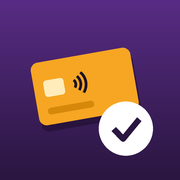
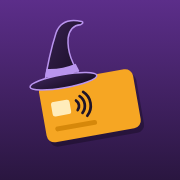
Which Card is now Witch Card
The mascot is a card dressed as a witch, riding a broom (No magic. Just
math.), a witch hat lands on the card to use, the header mark is a card in a
hat, and the home-screen icon is the marigold card in the hat. New name in
the page, the manifest, the About text and the README; the web address is
witch-card.tompkinssoftwaresystems.com. Storage keys, the engine's global
and the setup code prefix keep their old names, so nobody loses their
wallet. Icons are now drawn from an SVG.

Changed region(s): [[0.1389, 0.1111, 0.8611, 0.8889]]

diff --git a/app.js b/app.js
@@ -1,4 +1,4 @@
-/* Which Card: app shell. Depends on engine.js (WhichCardEngine). */
+/* Witch Card: app shell. Depends on engine.js (WhichCardEngine, the engine's name from before the rename). */
 (function () {
   'use strict';
   var E = window.WhichCardEngine;
@@ -199,9 +199,15 @@
   var sheetOnClose = null;
 
   /* ---------- first-run disclaimer ---------- */
+  // The mascot: a goofy plum card dressed as a witch, riding a broom. Arms take the text color so they show in dark mode.
   function mascotSvg() {
-    return '<svg viewBox="0 0 240 180" width="200" height="150" role="img" aria-label="A goofy cartoon credit card">' +
-      '<defs><linearGradient id="mg" x1="0" y1="0" x2="1" y2="1"><stop offset="0" stop-color="#8A55C9"/><stop offset="1" stop-color="#3B1A60"/></linearGradient></defs>' +
+    return '<svg viewBox="-40 -66 296 274" width="214" height="198" role="img" aria-label="A goofy cartoon credit card dressed as a witch, riding a broom">' +
+      '<defs><linearGradient id="mg" x1="0" y1="0" x2="1" y2="1"><stop offset="0" stop-color="#8A55C9"/><stop offset="1" stop-color="#3B1A60"/></linearGradient>' +
+      '<linearGradient id="mh" x1="0" y1="0" x2="1" y2="1"><stop offset="0" stop-color="#4A2F6E"/><stop offset="1" stop-color="#170D20"/></linearGradient></defs>' +
+      '<path d="M4 172 L 244 138" stroke="#7A4A22" stroke-width="7" stroke-linecap="round"/>' +
+      '<path d="M11.2 165.1 L -26.8 156.2 Q -36 176 -21.2 195.8 L 12.8 176.9 Z" fill="#E8B04B"/>' +
+      '<path d="M11 168 L -28 164 M11.5 171 L -30 176 M12 174 L -26 188" stroke="#B9802A" stroke-width="1.6" stroke-linecap="round" fill="none"/>' +
+      '<path d="M9 163.5 L 17.5 162.3 L 19.2 178.2 L 10.6 179.4 Z" fill="#5B2E86"/>' +
       '<g transform="rotate(-8 120 95)">' +
       '<rect x="30" y="40" width="180" height="112" rx="14" fill="url(#mg)"/>' +
       '<rect x="30" y="62" width="180" height="16" fill="#24103A" opacity=".9"/>' +
@@ -214,15 +220,33 @@
       '<path d="M104 128 q30 22 60 0" fill="none" stroke="#fff" stroke-width="4" stroke-linecap="round"/>' +
       '<path d="M128 139 q8 14 2 24 q-10 -6 -2 -24z" fill="#E86A6A"/>' +
       '<text x="198" y="57" text-anchor="end" fill="#fff" font-family="Archivo WC, Archivo, Helvetica, Arial, sans-serif" font-size="10.5" font-weight="800" font-style="italic" font-stretch="112%" letter-spacing=".6" opacity=".85">PAYS IN FULL</text>' +
-      '</g>' +
-      '<path d="M40 60 q-22 -4 -28 18" fill="none" stroke="#1E1328" stroke-width="6" stroke-linecap="round"/><circle cx="12" cy="80" r="7" fill="#1E1328"/>' +
-      '<path d="M206 70 q22 -16 26 2" fill="none" stroke="#1E1328" stroke-width="6" stroke-linecap="round"/><circle cx="232" cy="72" r="7" fill="#1E1328"/>' +
+      '<g transform="rotate(-7 89 40) translate(-4 0) translate(89 40) scale(1.2) translate(-89 -40)">' +
+      '<path d="M64 39 Q 78 4 92 -22 Q 104 -42 126 -30 Q 129 -28 124 -26 Q 110 -28 104 -14 Q 98 8 114 39 Z" fill="url(#mh)" stroke="#6A4A96" stroke-width="1.2" stroke-linejoin="round"/>' +
+      '<path d="M67 32 Q 89 35.5 110.5 32 L 107.4 24 Q 89 27.5 70.2 24 Z" fill="#F6A623"/>' +
+      '<rect x="84" y="24.6" width="10" height="8.6" rx="1.6" fill="none" stroke="#1E1328" stroke-width="2"/>' +
+      '<ellipse cx="89" cy="40" rx="46" ry="8" fill="url(#mh)" stroke="#6A4A96" stroke-width="1.2"/>' +
+      '</g></g>' +
+      '<path d="M40 60 q-22 -4 -28 18" fill="none" stroke="currentColor" stroke-width="6" stroke-linecap="round"/><circle cx="12" cy="80" r="7" fill="currentColor"/>' +
+      '<path d="M206 70 q22 -16 26 2" fill="none" stroke="currentColor" stroke-width="6" stroke-linecap="round"/><circle cx="232" cy="72" r="7" fill="currentColor"/>' +
+      '</svg>';
+  }
+  // The witch hat, on its own: it lands on the card to use. Same shape as the mascot's.
+  var hatSeq = 0;
+  function hatSvg() {
+    var id = 'wh' + (++hatSeq);
+    return '<svg viewBox="38 -44 102 96" aria-hidden="true" focusable="false">' +
+      '<defs><linearGradient id="' + id + '" x1="0" y1="0" x2="1" y2="1"><stop offset="0" stop-color="#4A2F6E"/><stop offset="1" stop-color="#170D20"/></linearGradient></defs>' +
+      '<path d="M64 39 Q 78 4 92 -22 Q 104 -42 126 -30 Q 129 -28 124 -26 Q 110 -28 104 -14 Q 98 8 114 39 Z" fill="url(#' + id + ')" stroke="#7A5AA8" stroke-width="1.6" stroke-linejoin="round"/>' +
+      '<path d="M67 32 Q 89 35.5 110.5 32 L 107.4 24 Q 89 27.5 70.2 24 Z" fill="#F6A623"/>' +
+      '<rect x="84" y="24.6" width="10" height="8.6" rx="1.6" fill="none" stroke="#1E1328" stroke-width="2"/>' +
+      '<ellipse cx="89" cy="40" rx="46" ry="8" fill="url(#' + id + ')" stroke="#7A5AA8" stroke-width="1.6"/>' +
       '</svg>';
   }
   function openDisclaimer() {
     var art = h('div', { class: 'mascot' }); art.innerHTML = mascotSvg();
     var nodes = [
       art,
+      h('p', { class: 'mascot-note' }, 'No magic. Just math.'),
       h('h2', { style: 'text-align:center' }, 'Quick word before we start'),
       h('p', { style: 'text-align:center' }, 'This was built for people who pay their statement in full every month so they never pay interest. Rewards are the only reason to pick one card over another.'),
       h('p', { class: 'muted', style: 'text-align:center' }, 'If you carry a balance and pay interest: no judgment, carry on exactly as you are. The rest of us appreciate you funding these rewards.'),
@@ -431,7 +455,9 @@
     var winner = h('div', { class: 'winner ' + tone + (changed ? ' reveal' : '') + (where ? '' : ' nowhere'), style: '--card:' + card.color });
     if (changed && interacted && navigator.vibrate) { try { navigator.vibrate(8); } catch (e) { } }
     winner.appendChild(h('div', { class: 'w-label' }, icon('check'), where ? 'Use this card' : 'For everything else, use'));
-    var pulled = h('div', { class: 'w-card' }); pulled.appendChild(cardArt(card, 300, { bare: true })); winner.appendChild(pulled);
+    var pulled = h('div', { class: 'w-card' }); pulled.appendChild(cardArt(card, 300, { bare: true }));
+    var hat = h('span', { class: 'w-hat' }); hat.innerHTML = hatSvg(); pulled.appendChild(hat);
+    winner.appendChild(pulled);
     winner.appendChild(h('div', { class: 'name' }, best.entry.nickname || card.name));
     var row = h('div', { class: 'wrow' });
     var unit = best.unit;
@@ -988,7 +1014,7 @@
         if (!existing && !walletEntry(card.id)) state.wallet.push({ cardId: card.id, added: new Date().toISOString() });
         saveState(); closeSheet(); toast(existing ? 'Card updated' : 'Added ' + card.name);
       } }, existing ? 'Save' : 'Add to my wallet'),
-      h('p', { class: 'small muted' }, 'Want it in the catalog for everyone? ', h('a', { href: 'mailto:' + CONTACT + '?subject=' + encodeURIComponent('Which Card: please add a card') + '&body=' + encodeURIComponent('Card: \nBank: \nWhat it earns: \nLink to the bank page: '), }, 'Email us the card name and the bank page'), '.')
+      h('p', { class: 'small muted' }, 'Want it in the catalog for everyone? ', h('a', { href: 'mailto:' + CONTACT + '?subject=' + encodeURIComponent('Witch Card: please add a card') + '&body=' + encodeURIComponent('Card: \nBank: \nWhat it earns: \nLink to the bank page: '), }, 'Email us the card name and the bank page'), '.')
     ];
     openSheet(existing ? 'Edit my card' : 'My card isn\u2019t here', nodes);
     sheetOnClose = function () { if (intro) openAddCards(true); else renderAll(); };
@@ -1311,7 +1337,7 @@
       }
       nodes.push(box);
     }
-    nodes.push(h('p', { class: 'small muted' }, 'Rates checked ' + fmtLongDate(card.verified || data.verified) + ' against the issuer. ', card.sourceUrl ? h('a', { href: card.sourceUrl, target: '_blank', rel: 'noopener' }, 'Issuer page') : null, card.sourceUrl ? ' or ' : '', h('a', { href: 'mailto:' + CONTACT + '?subject=' + encodeURIComponent('Which Card: wrong number on ' + card.name) }, 'Report a wrong number')));
+    nodes.push(h('p', { class: 'small muted' }, 'Rates checked ' + fmtLongDate(card.verified || data.verified) + ' against the issuer. ', card.sourceUrl ? h('a', { href: card.sourceUrl, target: '_blank', rel: 'noopener' }, 'Issuer page') : null, card.sourceUrl ? ' or ' : '', h('a', { href: 'mailto:' + CONTACT + '?subject=' + encodeURIComponent('Witch Card: wrong number on ' + card.name) }, 'Report a wrong number')));
     if (card.custom) nodes.push(h('button', { class: 'btn block', onclick: function () { openCustomCard(card); } }, 'Edit this card'));
     if (inWallet) nodes.push(h('button', { class: 'btn danger block', onclick: function () {
       toggleCard(card);
@@ -1468,7 +1494,7 @@
 
     var as = h('div', { class: 'section' }, h('h2', null, 'About'),
       h('div', { class: 'box small' },
-        h('p', null, h('b', null, 'Which Card'), ' by Tompkins Software Systems.'),
+        h('p', null, h('b', null, 'Witch Card'), ' by Tompkins Software Systems. The witch is for fun; the answers are arithmetic on your own cards. No magic. Just math.'),
         h('p', { style: 'margin-top:8px' }, 'Nothing to sign up for. Your card list, purchases and settings stay on this phone. The only thing that leaves it is an anonymous nearby-places lookup when you use location, and the stores it finds are remembered on this phone for 30 days so a return visit is instant.'),
         h('p', { style: 'margin-top:8px', class: 'pledge' }, 'Made by a cardholder, not a bank. No sponsors. No ads, ever. No subscription, ever. 99 cents once, for life.'),
         h('p', { style: 'margin-top:8px' }, h('b', null, 'About the card pictures. '), 'Drawn, not real. Partly because we are cheap asses, mostly because the real designs are trademarked and we are not spending eternity in court over a picture. The sites with the real pictures have a deal with the bank and get paid when you click. We get squat, on purpose.'),

diff --git a/app.css b/app.css
@@ -95,8 +95,7 @@ b, strong { font-weight: 680; }
 .top { position: sticky; top: env(safe-area-inset-top, 0px); z-index: 5; background: var(--bg); }
 .top .wrap { display: flex; align-items: center; justify-content: space-between; gap: 12px; padding-block: 10px 6px; }
 .brand { display: flex; align-items: center; gap: 10px; font-weight: 820; font-stretch: 112%; font-size: 1.2rem; letter-spacing: -.015em; }
-.brand .mark { position: relative; width: 30px; height: 20px; border-radius: 5px; background: linear-gradient(135deg, #7E4BC0, #3B1A60); transform: rotate(-9deg); box-shadow: 0 3px 6px rgba(42, 22, 64, .35); flex: none; }
-.brand .mark::after { content: ""; position: absolute; left: 5px; top: 6px; width: 8px; height: 6px; border-radius: 2px; background: var(--gold); }
+.brand .mark { width: 37px; height: 34px; flex: none; margin: -6px -2px -2px -3px; filter: drop-shadow(0 3px 4px rgba(42, 22, 64, .3)); }
 .icon-btn { width: 44px; height: 44px; border-radius: 50%; display: grid; place-items: center; color: var(--fg); background: var(--surface); border: 1px solid var(--line); }
 .icon-btn svg { width: 22px; height: 22px; }
 .icon-btn.on { background: var(--accent); color: var(--accent-fg); border-color: var(--accent); }
@@ -166,7 +165,11 @@ main { padding-block: 6px 28px; }
 .winner { display: flex; flex-direction: column; gap: 9px; position: relative; }
 .winner .w-label { display: flex; align-items: center; gap: 6px; color: var(--accent); font-weight: 650; font-size: .95rem; }
 .winner .w-label svg { width: 16px; height: 16px; }
-.winner .w-card { align-self: flex-start; width: min(100%, 300px); margin: 0 0 4px 4px; }
+.winner .w-card { position: relative; align-self: flex-start; width: min(100%, 300px); margin: 0 0 4px 4px; }
+.winner .w-hat { position: absolute; right: -5%; top: 0; width: 25%; transform: translate(0, -56%) rotate(16deg); transform-origin: 50% 85%; pointer-events: none; }
+.winner .w-hat svg { display: block; width: 100%; height: auto; filter: drop-shadow(0 6px 6px rgba(42, 22, 64, .28)); }
+.winner.reveal .w-hat { animation: hatdrop .5s .32s cubic-bezier(.2, .9, .3, 1.25) both; }
+@keyframes hatdrop { from { opacity: 0; transform: translate(-10%, -150%) rotate(-12deg); } to { opacity: 1; transform: translate(0, -56%) rotate(16deg); } }
 @media (max-height: 720px) { .winner .w-card { width: min(100%, 240px); } }
 .winner .w-card .card-art { display: block; width: 100%; }
 .winner .w-card .card-art svg { width: 100%; height: auto; transform: rotate(-2deg); filter: var(--card-drop); }
@@ -377,15 +380,16 @@ label.lbl { display: block; font-size: .85rem; font-weight: 620; color: var(--mu
 /* ---------- Intro (first screen) ---------- */
 .intro { display: flex; flex-direction: column; gap: 16px; padding-block: 14px 8px; }
 .intro h1 { font-size: 2.35rem; font-weight: 840; font-stretch: 108%; line-height: 1.02; letter-spacing: -.025em; }
-.intro-art { position: relative; height: 168px; margin: 0 0 4px; }
+.intro-art { position: relative; height: 168px; margin: 24px 0 4px; }
 .mini-card { position: absolute; left: 50%; top: 18px; width: 178px; height: 112px; border-radius: 13px; box-shadow: 0 16px 28px -10px rgba(42, 22, 64, .5); transform-origin: bottom center; }
 .mini-card::before { content: ""; position: absolute; left: 16px; top: 34px; width: 30px; height: 22px; border-radius: 5px; background: linear-gradient(135deg, #FFE08A, #D9951A); }
 .mini-card::after { content: ""; position: absolute; left: 16px; bottom: 14px; width: 74px; height: 7px; border-radius: 4px; background: rgba(255, 255, 255, .55); }
 .mini-card.c1 { background: linear-gradient(135deg, #8A55C9, #3B1A60); transform: translateX(-50%) translateX(-80px) rotate(-14deg); animation: fan1 .55s cubic-bezier(.2, .8, .2, 1) both; }
 .mini-card.c2 { background: linear-gradient(135deg, #F27A6B, #B7354A); transform: translateX(-50%) translateY(-8px); animation: fan2 .55s .05s cubic-bezier(.2, .8, .2, 1) both; z-index: 1; }
 .mini-card.c3 { background: linear-gradient(135deg, #2E8C86, #155650); transform: translateX(-50%) translateX(80px) rotate(14deg); animation: fan3 .55s .1s cubic-bezier(.2, .8, .2, 1) both; }
-.mini-check { position: absolute; left: calc(50% + 52px); top: 2px; width: 46px; height: 46px; border-radius: 50%; background: var(--gold); color: #1E1328; display: grid; place-items: center; z-index: 2; box-shadow: 0 8px 16px rgba(42, 22, 64, .3); animation: popin .35s .4s cubic-bezier(.2, .8, .2, 1) both; }
-.mini-check svg { width: 24px; height: 24px; }
+.mini-hat { position: absolute; left: calc(50% + 34px); top: -30px; width: 74px; z-index: 2; transform: rotate(14deg); transform-origin: 50% 85%; animation: hatin .5s .45s cubic-bezier(.2, .9, .3, 1.25) both; }
+.mini-hat svg { display: block; width: 100%; height: auto; filter: drop-shadow(0 6px 8px rgba(42, 22, 64, .3)); }
+@keyframes hatin { from { opacity: 0; transform: translateY(-40px) rotate(-10deg); } }
 @keyframes fan1 { from { transform: translateX(-50%) translateY(40px); opacity: 0; } }
 @keyframes fan2 { from { transform: translateX(-50%) translateY(40px); opacity: 0; } }
 @keyframes fan3 { from { transform: translateX(-50%) translateY(40px); opacity: 0; } }
@@ -397,7 +401,8 @@ label.lbl { display: block; font-size: .85rem; font-weight: 620; color: var(--mu
 
 /* ---------- Pledge and mascot ---------- */
 .pledge { font-weight: 700; color: var(--accent); font-size: .98rem; line-height: 1.4; }
-.mascot { display: flex; justify-content: center; padding: 6px 0 0; }
+.mascot { display: flex; justify-content: center; padding: 6px 0 0; color: var(--fg); }
+.mascot-note { margin-top: -6px; text-align: center; font-weight: 760; font-stretch: 110%; color: var(--accent); letter-spacing: -.005em; }
 .mascot svg { animation: bob 2.4s ease-in-out infinite; transform-origin: 50% 90%; }
 @keyframes bob { 0%, 100% { transform: rotate(-2deg) translateY(0); } 50% { transform: rotate(2deg) translateY(-6px); } }
 

diff --git a/index.html b/index.html
@@ -3,14 +3,14 @@
 <head>
 <meta charset="utf-8">
 <meta name="viewport" content="width=device-width, initial-scale=1, viewport-fit=cover">
-<title>Which Card</title>
+<title>Witch Card</title>
 <meta name="description" content="Tells you which of your credit cards to use at the store you are standing in, before you pay.">
 <meta name="theme-color" content="#F5F2F8" media="(prefers-color-scheme: light)">
 <meta name="theme-color" content="#130B1B" media="(prefers-color-scheme: dark)">
 <meta name="apple-mobile-web-app-capable" content="yes">
 <meta name="mobile-web-app-capable" content="yes">
 <meta name="apple-mobile-web-app-status-bar-style" content="default">
-<meta name="apple-mobile-web-app-title" content="Which Card">
+<meta name="apple-mobile-web-app-title" content="Witch Card">
 <link rel="manifest" href="manifest.webmanifest">
 <link rel="icon" href="icons/icon-192.png" type="image/png">
 <link rel="apple-touch-icon" href="icons/apple-touch-icon.png">
@@ -61,7 +61,7 @@
 
 <header class="top">
   <div class="wrap">
-    <div class="brand"><span class="mark" aria-hidden="true"></span><span>Which Card</span></div>
+    <div class="brand"><svg class="mark" viewBox="0 -6 46 42" aria-hidden="true" focusable="false"><defs><linearGradient id="mk-card" x1="0" y1="0" x2="1" y2="1"><stop offset="0" stop-color="#8A55C9"/><stop offset="1" stop-color="#3B1A60"/></linearGradient><linearGradient id="mk-hat" x1="0" y1="0" x2="1" y2="1"><stop offset="0" stop-color="#4A2F6E"/><stop offset="1" stop-color="#170D20"/></linearGradient></defs><g transform="rotate(-9 23 25)"><rect x="6" y="14" width="33" height="21" rx="4.5" fill="url(#mk-card)"/><rect x="10" y="22" width="8" height="6" rx="1.6" fill="#F6A623"/><path d="M11 14.6 Q 14 6.5 17 0.5 Q 19.6 -3.8 24.8 -1.2 Q 25.4 -0.6 24.2 -0.3 Q 21 -0.8 20 2.6 Q 18.8 8 22.6 14.6 Z" fill="url(#mk-hat)" stroke="#7A5AA8" stroke-width=".8" stroke-linejoin="round"/><path d="M11.7 12.6 Q 16.8 13.6 21.9 12.6 L 21.2 10.2 Q 16.8 11.1 12.6 10.2 Z" fill="#F6A623"/><ellipse cx="16.8" cy="14.8" rx="11" ry="2.7" fill="url(#mk-hat)" stroke="#7A5AA8" stroke-width=".8"/></g></svg><span>Witch Card</span></div>
     <button id="btn-locate" class="icon-btn" aria-label="Find the store I am at" title="Find my store"><svg><use href="#i-pin"/></svg></button>
   </div>
 </header>
@@ -71,7 +71,7 @@
     <div id="pay-empty" class="intro" hidden>
       <div class="intro-art" aria-hidden="true">
         <span class="mini-card c1"></span><span class="mini-card c2"></span><span class="mini-card c3"></span>
-        <span class="mini-check"><svg><use href="#i-check"/></svg></span>
+        <span class="mini-hat"><svg viewBox="38 -44 102 96" aria-hidden="true" focusable="false"><defs><linearGradient id="in-hat" x1="0" y1="0" x2="1" y2="1"><stop offset="0" stop-color="#4A2F6E"/><stop offset="1" stop-color="#170D20"/></linearGradient></defs><path d="M64 39 Q 78 4 92 -22 Q 104 -42 126 -30 Q 129 -28 124 -26 Q 110 -28 104 -14 Q 98 8 114 39 Z" fill="url(#in-hat)" stroke="#7A5AA8" stroke-width="1.6" stroke-linejoin="round"/><path d="M67 32 Q 89 35.5 110.5 32 L 107.4 24 Q 89 27.5 70.2 24 Z" fill="#F6A623"/><rect x="84" y="24.6" width="10" height="8.6" rx="1.6" fill="none" stroke="#1E1328" stroke-width="2"/><ellipse cx="89" cy="40" rx="46" ry="8" fill="url(#in-hat)" stroke="#7A5AA8" stroke-width="1.6"/></svg></span>
       </div>
       <h1>Stop guessing at the pump.</h1>
       <p class="muted">Tell it which cards you carry. Then, at any store, it names the card that earns the most, before you tap.</p>

diff --git a/sw.js b/sw.js
@@ -1,8 +1,8 @@
-/* Which Card service worker.
+/* Witch Card service worker.
    App shell: cache first, refreshed in the background.
    Card data (data/*.json): network first, cached copy when offline.
    Bump VERSION when the shell changes so every phone picks up the new files. */
-var VERSION = 'wc-2026-10-29-3';
+var VERSION = 'wc-2026-10-29-4';
 var SHELL = ['./', './index.html', './app.css', './app.js', './engine.js', './manifest.webmanifest', './fonts/archivo-wdth.woff2', './icons/icon-192.png', './icons/icon-512.png'];
 
 self.addEventListener('install', function (e) {

diff --git a/engine.js b/engine.js
@@ -1,4 +1,4 @@
-/* Which Card recommendation engine.
+/* Witch Card recommendation engine (the global keeps its old name, WhichCardEngine).
    Pure functions, no DOM. Works in the browser (window.WhichCardEngine) and in Node (module.exports). */
 (function (root, factory) {
   if (typeof module === 'object' && module.exports) module.exports = factory();

diff --git a/tools/make_icons.py b/tools/make_icons.py
@@ -1,10 +1,13 @@
-"""Draws the app icons (no external assets). Run from the repo root: python3 tools/make_icons.py"""
+"""Draws the app icons. Run from the repo root: python3 tools/make_icons.py
+
+The main icon is an SVG, a marigold card wearing a witch hat on a plum tile, rendered by the
+headless browser the tests use (Playwright). The shortcut icons are drawn with Pillow."""
 from PIL import Image, ImageDraw
 import os
 
 ROOT = os.path.join(os.path.dirname(__file__), '..', 'icons')
 os.makedirs(ROOT, exist_ok=True)
-# Which Card's own colors: a plum tile, a marigold card, a white check.
+# Witch Card's own colors: a plum tile, a marigold card, an ink witch hat with a lavender band.
 PLUM_TOP = (88, 44, 132)
 PLUM = (42, 22, 64)
 INK = (30, 19, 40)
@@ -12,6 +15,44 @@ MARIGOLD = (246, 166, 35)
 CREAM = (255, 236, 186)
 WHITE = (255, 255, 255)
 LAVENDER = (246, 239, 252)
+
+
+def icon_svg(maskable=False):
+    """The icon at 512 units. The maskable version fills the square and keeps the art inside the safe circle."""
+    tile = '<rect width="512" height="512" fill="url(#tg)"/>' if maskable else '<rect width="512" height="512" rx="112" fill="url(#tg)"/>'
+    scale = 0.86 if maskable else 1.0
+    return (
+        '<svg xmlns="http://www.w3.org/2000/svg" viewBox="0 0 512 512" width="512" height="512">'
+        '<defs><linearGradient id="tg" x1="0" y1="0" x2="0" y2="1"><stop offset="0" stop-color="#5C2E8A"/><stop offset="1" stop-color="#2A1640"/></linearGradient>'
+        '<linearGradient id="ih" x1="0" y1="0" x2="1" y2="1"><stop offset="0" stop-color="#3C2459"/><stop offset="1" stop-color="#140B1C"/></linearGradient></defs>'
+        + tile +
+        '<g transform="translate(256 256) scale(%s) translate(-256 -256)"><g transform="rotate(-10 250 300)">' % scale +
+        # the card, tilted as if just pulled out, with its shadow, chip, tap mark and a stripe
+        '<rect x="96" y="210" width="316" height="198" rx="26" fill="#000" opacity=".28" transform="translate(8 16)"/>'
+        '<rect x="96" y="210" width="316" height="198" rx="26" fill="#F6A623"/>'
+        '<rect x="128" y="276" width="62" height="48" rx="9" fill="#FFECBA"/>'
+        '<g fill="none" stroke="#1E1328" stroke-width="9" stroke-linecap="round" transform="translate(212 300)">'
+        '<path d="M0-16a22 22 0 0 1 0 32"/><path d="M14-28a38 38 0 0 1 0 56"/><path d="M28-40a54 54 0 0 1 0 80"/></g>'
+        '<rect x="128" y="358" width="140" height="16" rx="8" fill="#D6880A"/>'
+        # the witch hat
+        '<path d="M118 214 Q 150 120 186 52 Q 214 4 276 30 Q 284 36 270 40 Q 236 36 222 76 Q 206 140 246 214 Z" fill="url(#ih)" stroke="#B994EE" stroke-width="5" stroke-linejoin="round"/>'
+        '<path d="M124 190 Q 182 202 240 190 L 232 164 Q 182 175 134 164 Z" fill="#B994EE"/>'
+        '<ellipse cx="182" cy="214" rx="112" ry="22" fill="url(#ih)" stroke="#B994EE" stroke-width="5"/>'
+        '</g></g></svg>')
+
+
+def render_icons(jobs):
+    """jobs: (file name, size, maskable, opaque). Renders each with headless Chromium."""
+    from playwright.sync_api import sync_playwright
+    with sync_playwright() as pw:
+        browser = pw.chromium.launch()
+        page = browser.new_page(viewport={'width': 512, 'height': 512})
+        for name, size, maskable, opaque in jobs:
+            svg = icon_svg(maskable).replace('width="512" height="512"', 'width="%d" height="%d"' % (size, size), 1)
+            bg = '#2A1640' if opaque else 'transparent'
+            page.set_content('<html><body style="margin:0;background:%s">%s</body></html>' % (bg, svg))
+            page.screenshot(path=os.path.join(ROOT, name), clip={'x': 0, 'y': 0, 'width': size, 'height': size}, omit_background=not opaque)
+        browser.close()
 
 
 def plum_tile(s, rounded=True):
@@ -30,38 +71,6 @@ def plum_tile(s, rounded=True):
         md.rectangle([0, 0, s, s], fill=255)
     tile.paste(grad, (0, 0), mask)
     return tile
-
-
-def card_icon(size, maskable=False):
-    s = size * 4  # draw large, downsample for smooth edges
-    img = plum_tile(s, rounded=not maskable)
-    d = ImageDraw.Draw(img)
-    pad = int(s * (0.22 if maskable else 0.16))
-    # A marigold card, tilted as if just pulled out, with a chip and a tap mark
-    cw, ch = s - 2 * pad, int((s - 2 * pad) * 0.63)
-    card = Image.new('RGBA', (cw, ch), (0, 0, 0, 0))
-    cd = ImageDraw.Draw(card)
-    cd.rounded_rectangle([0, 0, cw - 1, ch - 1], radius=int(ch * 0.12), fill=MARIGOLD)
-    cd.rounded_rectangle([int(cw * 0.1), int(ch * 0.3), int(cw * 0.3), int(ch * 0.56)], radius=int(ch * 0.05), fill=CREAM)
-    w = max(2, int(s * 0.016))
-    for i, r in enumerate([0.07, 0.12, 0.17]):
-        box = [int(cw * 0.36 - r * cw), int(ch * 0.43 - r * cw), int(cw * 0.36 + r * cw), int(ch * 0.43 + r * cw)]
-        cd.arc(box, -40, 40, fill=INK, width=w)
-    cd.rounded_rectangle([int(cw * 0.1), int(ch * 0.74), int(cw * 0.56), int(ch * 0.84)], radius=int(ch * 0.05), fill=(214, 136, 10))
-    card = card.rotate(10, resample=Image.BICUBIC, expand=True)
-    shadow = Image.new('RGBA', card.size, (0, 0, 0, 0))
-    shadow.paste((20, 8, 30, 110), (0, 0), card.split()[3])
-    cx = (s - card.width) // 2 - int(s * 0.03)
-    cy = (s - card.height) // 2 - int(s * 0.02)
-    img.alpha_composite(shadow, (cx + int(s * 0.015), cy + int(s * 0.035)))
-    img.alpha_composite(card, (cx, cy))
-    # The check: this is the one to use
-    r = int(s * 0.15)
-    bx, by = s - pad - int(r * 0.55), s - pad - int(r * 0.45)
-    d.ellipse([bx - r, by - r, bx + r, by + r], fill=WHITE)
-    lw = int(s * 0.034)
-    d.line([(bx - r * 0.45, by + r * 0.02), (bx - r * 0.1, by + r * 0.38), (bx + r * 0.5, by - r * 0.35)], fill=PLUM, width=lw, joint='curve')
-    return img.resize((size, size), Image.LANCZOS)
 
 
 def shortcut(name, size=96):
@@ -92,12 +101,12 @@ def shortcut(name, size=96):
     return img.resize((size, size), Image.LANCZOS)
 
 
-card_icon(192).save(os.path.join(ROOT, 'icon-192.png'))
-card_icon(512).save(os.path.join(ROOT, 'icon-512.png'))
-card_icon(512, maskable=True).save(os.path.join(ROOT, 'maskable-512.png'))
-apple = Image.new('RGB', (180, 180), PLUM)
-apple.paste(card_icon(180, maskable=True).convert('RGB'))
-apple.save(os.path.join(ROOT, 'apple-touch-icon.png'))
+render_icons([
+    ('icon-192.png', 192, False, False),
+    ('icon-512.png', 512, False, False),
+    ('maskable-512.png', 512, True, True),
+    ('apple-touch-icon.png', 180, True, True),
+])
 for n in ['gas', 'groceries', 'dining', 'online']:
     shortcut(n).save(os.path.join(ROOT, 'shortcut-%s.png' % n))
 print('icons written to', os.path.abspath(ROOT))

diff --git a/tools/make_preview.py b/tools/make_preview.py
@@ -30,7 +30,7 @@ def main():
     engine = read('engine.js')
     app = read('app.js')
     inline = json.dumps(data, separators=(',', ':')).replace('</', '<\\/')
-    page = ('<title>Which Card</title>\n'
+    page = ('<title>Witch Card</title>\n'
             + '<style>\n' + css + '\n</style>\n'
             + body + '\n<script>\n' + engine + '\n</script>\n'
             + '<script>window.__PREVIEW=true;window.__WHICHCARD_DATA=' + inline + ';</script>\n'

diff --git a/README.md b/README.md
@@ -1,6 +1,8 @@
-# Which Card
+# Witch Card
 
-https://which-card.tompkinssoftwaresystems.com
+https://witch-card.tompkinssoftwaresystems.com
+
+Formerly Which Card. The name is a pun on what it does: it tells you which card to use, and its mascot is a card dressed as a witch. No magic, just math.
 
 A home-screen web app that tells you which of your credit cards to use at the store you are standing in, before you pay. Open it, confirm the store (or let it find the store from your location), type the amount if you want the dollar figure, and the best card is on screen. No account, no server, nothing leaves the phone except an anonymous nearby-places lookup when location is on.
 
@@ -8,9 +10,9 @@ Built by Tompkins Software Systems.
 
 ## How it works
 
-The first open shows a welcome note from a goofy cartoon card: the app is built for people who pay their statement in full and never pay interest; anyone who pays interest is welcome to carry on as they are.
+The first open shows a welcome note from the mascot, a goofy cartoon card in a witch hat riding a broom ("No magic. Just math."): the app is built for people who pay their statement in full and never pay interest; anyone who pays interest is welcome to carry on as they are.
 
-- **Pay** is the whole point: pick the store (search, quick buttons, or location), optionally type the amount, and the card to use appears drawn big, as if just pulled out of the wallet, with what it earns, why, and anything to watch (activation, caps, Visa-only stores, foreign fees). Every other card in the wallet is ranked below it in a stitched pocket, best first. "I used it" logs the purchase so caps and welcome-bonus goals stay current.
+- **Pay** is the whole point: pick the store (search, quick buttons, or location), optionally type the amount, and the card to use appears drawn big, as if just pulled out of the wallet, with the witch hat landing on it, with what it earns, why, and anything to watch (activation, caps, Visa-only stores, foreign fees). Every other card in the wallet is ranked below it in a stitched pocket, best first. "I used it" logs the purchase so caps and welcome-bonus goals stay current.
 - **Where you are standing.** With location on, the app looks up the stores around you every time it opens, and again when you come back to it after a minute or more, then shows "You're at" and the store's name with the best card for it, before any amount is typed. The stores next door are one tap away ("Not here?"). A store picked by hand in the last three minutes is kept, so switching to a payment app and back never moves you, and a new store clears the old amount. If the lookup fails, the last store comes back. The Pay screen asks once, at the top, whether to turn location on.
 - **Fast lookups.** Two position requests start together, a quick one from Wi-Fi and cell towers and a precise one from GPS; the first usable fix answers (one rougher than 150 meters waits up to 4 seconds for a better one) and a clearly better or clearly different fix in the next 12 seconds corrects it. The stores found around a spot are kept on the phone for 30 days (`whichcard.places.v1`: where the lookup was made, to about 10 meters, and the named places within 120 meters), so a place you have been before is answered with no lookup; a spot older than 3 days is refreshed quietly. A new place asks overpass.private.coffee first and overpass-api.de as well if the first has not answered in 1.5 seconds; the first good answer wins, and after 9 seconds the app stops and says the map is slow. Turning location off or erasing the app clears the kept stores.
 - **Best card anywhere** sits under each answer: the card from the whole catalog that would earn the most at that store at the person's pace (a trips-a-year slider, prefilled from their logged purchases or a typical pace), shown as yearly dollars after the card's annual fee, with the trip count at which a fee card pays for itself. It judges cards on their everyday rates, ignoring rotating and time-limited bonuses, and says plainly when nothing beats what they already carry. It can be turned off under More.
@@ -22,7 +24,7 @@ The recommendation logic lives in `engine.js` and has no DOM dependencies; `test
 
 ## Look
 
-The idea is pulling the right card out of your wallet. The card to use is drawn big and tilted, the rest of the wallet sits in a plum pocket under it, and everything else stays quiet so the card colors carry the color. Palette: Mist #F5F2F8 (background), Ink #1E1328 (text), Plum #5B2E86 (actions), Pocket #2A1640 (the wallet) and Marigold #F6A623 (wins), with a dark version of each. Type is Archivo, one variable font used wide for names and headings and condensed for rates and dollar figures. The font ships with the app (`fonts/`), so no font service is contacted. The look follows the phone's light or dark setting unless one is picked under More.
+The idea is pulling the right card out of your wallet. The card to use is drawn big and tilted, a witch hat lands on its corner a beat later, the rest of the wallet sits in a plum pocket under it, and everything else stays quiet so the card colors carry the color. The witch shows up in four places only: the hat on the card to use, the header mark (a card in a hat), the home-screen icon, and the mascot on the welcome note. Palette: Mist #F5F2F8 (background), Ink #1E1328 (text), Plum #5B2E86 (actions), Pocket #2A1640 (the wallet) and Marigold #F6A623 (wins), with a dark version of each. Type is Archivo, one variable font used wide for names and headings and condensed for rates and dollar figures. The font ships with the app (`fonts/`), so no font service is contacted. The look follows the phone's light or dark setting unless one is picked under More.
 
 ## Files
 
@@ -39,7 +41,7 @@ The idea is pulling the right card out of your wallet. The card to use is drawn 
 | `tools/validate_data.py` | Shape and cross-reference checks on the data. Runs in CI. |
 | `tools/check_sources.py` | The daily review job (see below). |
 | `tools/make_preview.py` | Builds a single-file preview with the data inlined. |
-| `tools/make_icons.py` | Draws the icons. |
+| `tools/make_icons.py` | Draws the icons (the main icon is an SVG rendered with Playwright). |
 
 ## Keeping the card data current
 
@@ -60,9 +62,9 @@ python3 -m http.server 8000
 
 then open http://localhost:8000. Location lookup needs HTTPS (or localhost).
 
-Live at https://which-card.tompkinssoftwaresystems.com (the old tompkins52.github.io/which-card address forwards there).
+Live at https://witch-card.tompkinssoftwaresystems.com (the tompkins52.github.io/which-card address forwards there). The repository keeps its old name, and so do the storage keys (`whichcard.*`), the engine's global (`WhichCardEngine`) and the setup code prefix, so nothing anyone saved is lost.
 
-Deploy: GitHub Pages through `.github/workflows/pages.yml` (Settings > Pages > Source: GitHub Actions). The custom domain is set in Settings > Pages > Custom domain, with a Cloudflare CNAME record `which-card` pointing at `tompkins52.github.io` (DNS only, gray cloud). No CNAME file is needed because the site deploys through Actions.
+Deploy: GitHub Pages through `.github/workflows/pages.yml` (Settings > Pages > Source: GitHub Actions). The custom domain is set in Settings > Pages > Custom domain, with a Cloudflare CNAME record `witch-card` pointing at `tompkins52.github.io` (DNS only, gray cloud). No CNAME file is needed because the site deploys through Actions.
 
 Checks before committing data:
 
@@ -79,4 +81,4 @@ The app stores the card names the person picks, their settings, goals and logged
 
 ## Independent
 
-Made by a cardholder, not a bank. No sponsors. No ads, ever. No subscription, ever. 99 cents once, for life. Which Card takes nothing from any bank: no referral links, no paid placement, no sponsored cards. Every card gets the same treatment and the ranking is arithmetic on the person's own cards. It is not affiliated with any bank or card network. Earning rates are copied from issuer pages and can change without notice; the cardholder agreement always wins. Point values are estimates.
+Made by a cardholder, not a bank. No sponsors. No ads, ever. No subscription, ever. 99 cents once, for life. Witch Card takes nothing from any bank: no referral links, no paid placement, no sponsored cards. Every card gets the same treatment and the ranking is arithmetic on the person's own cards. It is not affiliated with any bank or card network. Earning rates are copied from issuer pages and can change without notice; the cardholder agreement always wins. Point values are estimates.
